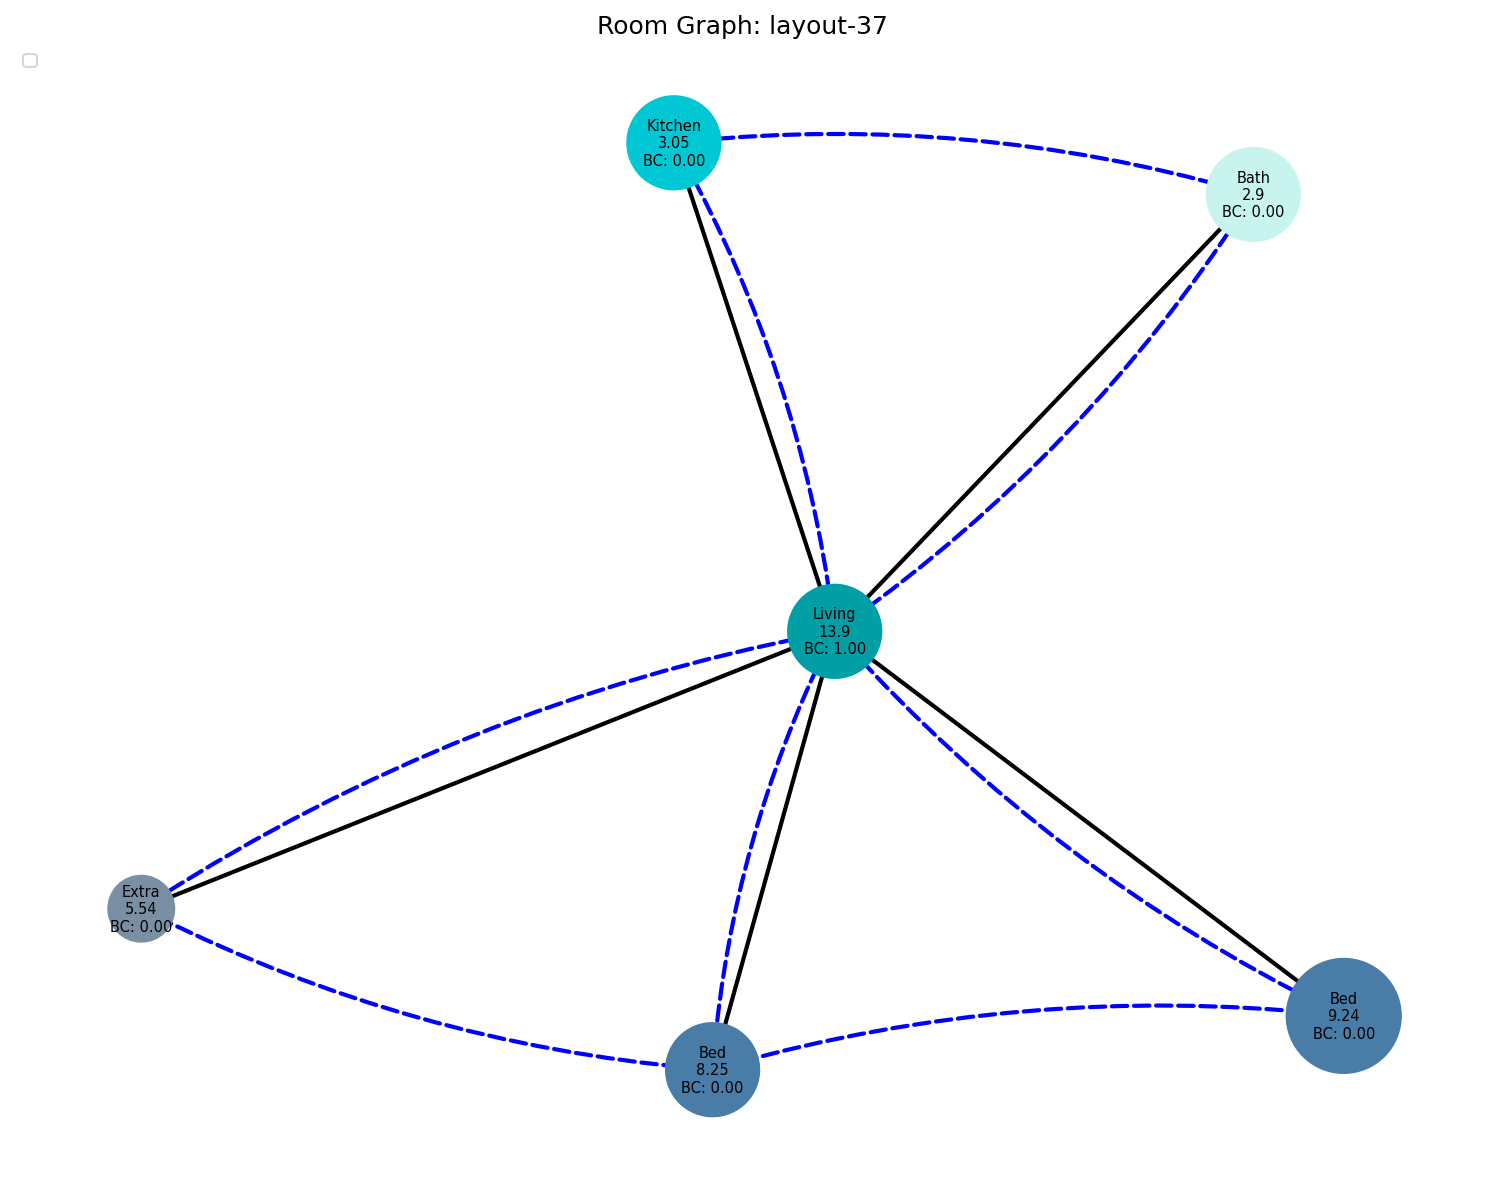
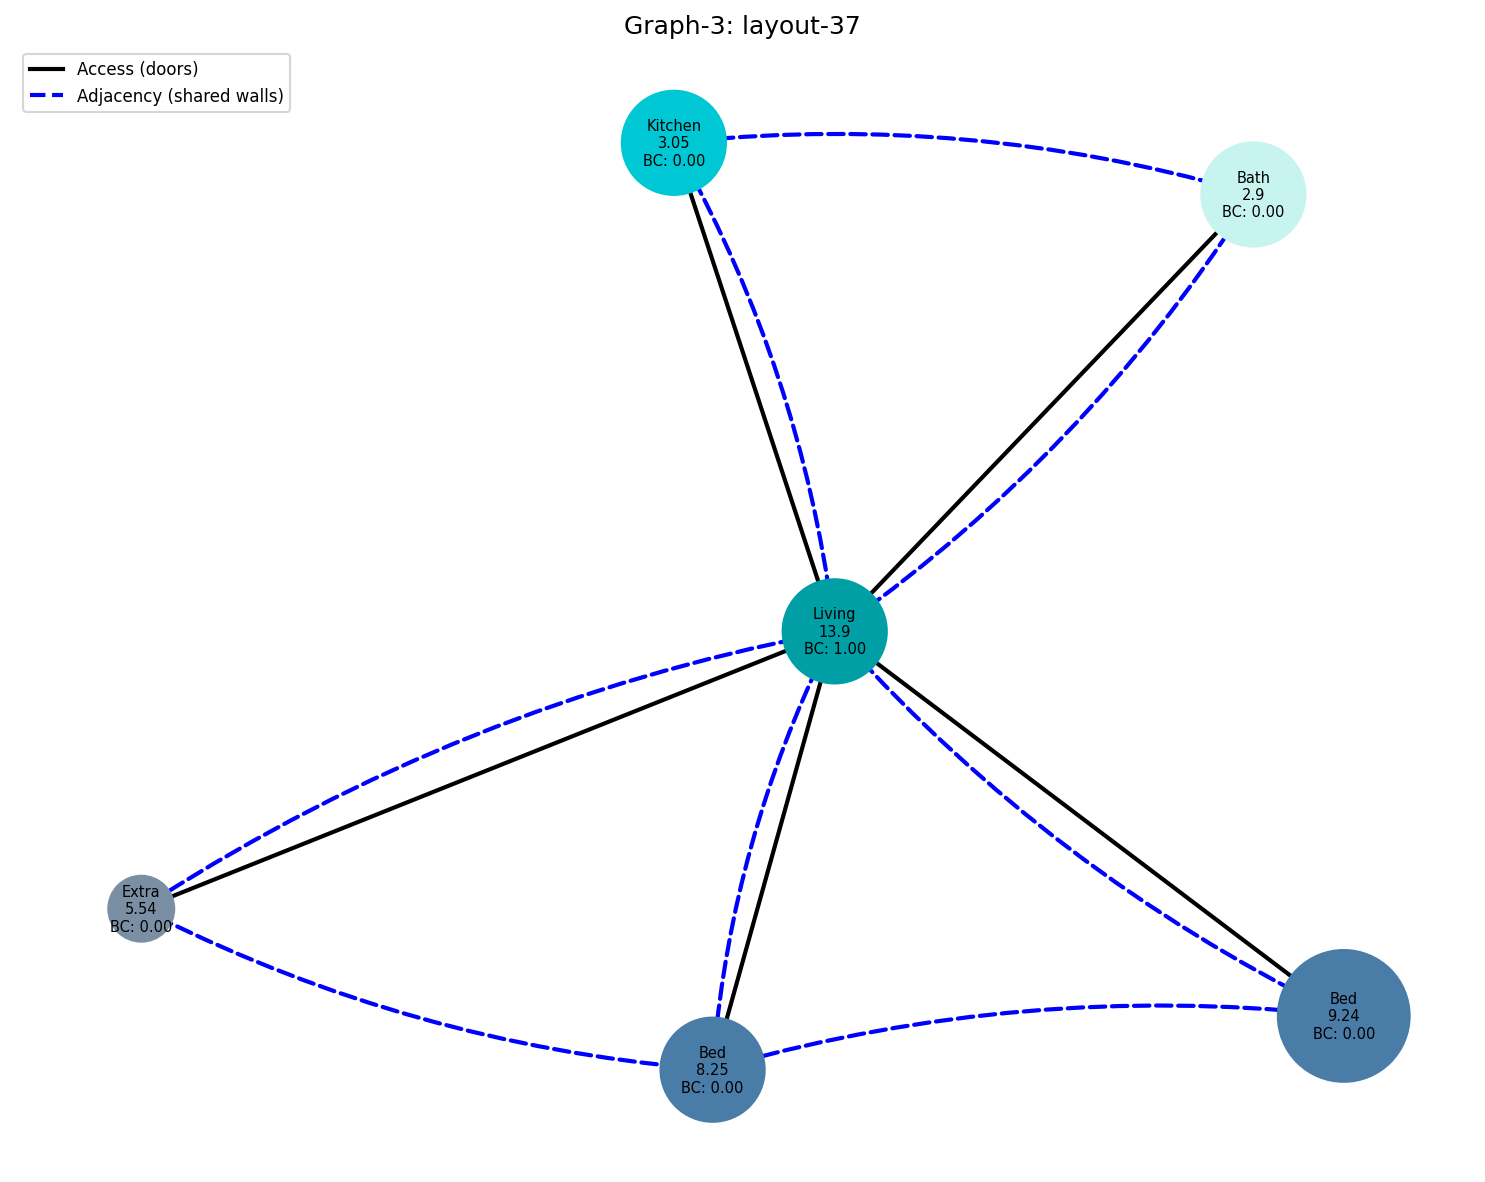
updated graph plot

diff --git a/team_06/python/utils/plotting/graph_plot.py b/team_06/python/utils/plotting/graph_plot.py
@@ -1,5 +1,6 @@
 import sys
 from pathlib import Path
+from matplotlib.lines import Line2D
 
 # Add project root to sys.path to enable imports from team_06 package
 script_dir = Path(__file__).resolve().parent
@@ -29,8 +30,8 @@ color_map = {
 
 size_map = {
     'small': 1000,
-    'medium': 2000,
-    'large': 3000
+    'medium': 2500,
+    'large': 4000
 }
 
 # Loop through each layout
@@ -65,7 +66,6 @@ for layout_idx, layout in enumerate(layouts, start=1):
     print(f"Edge details:")
     for u, v, d in G.edges(data=True):
         edge_types = d.get('edge_types', [])
-        weight = d.get('weight', 0)
         print(f"  {u} -- {v}: types={edge_types}")
 
     nx.draw_networkx_nodes(G, pos, node_color=node_colors, node_size=node_sizes)
@@ -82,8 +82,14 @@ for layout_idx, layout in enumerate(layouts, start=1):
         nx.draw_networkx_edges(G, pos, edgelist=adjacency_edges, width=2, style='dashed', edge_color='blue', 
                                connectionstyle='arc3,rad=0.1', arrows=True, arrowstyle='-', label='Adjacency (shared walls)')
     
-    plt.legend(loc='upper left', fontsize=8)
-    plt.title(f"Room Graph: {layout['layoutId']}")
+    # Create custom legend entries for edges
+    edge_legend_elements = [
+        Line2D([0], [0], color='black', linewidth=2, linestyle='-', label='Access (doors)'),
+        Line2D([0], [0], color='blue', linewidth=2, linestyle='--', label='Adjacency (shared walls)')
+    ]
+
+    plt.legend(handles=edge_legend_elements, loc='upper left', fontsize=8)
+    plt.title(f"Graph-{layout_idx}: {layout['layoutId']}")
     plt.axis('off')
     plt.tight_layout()
     #plt.show()
